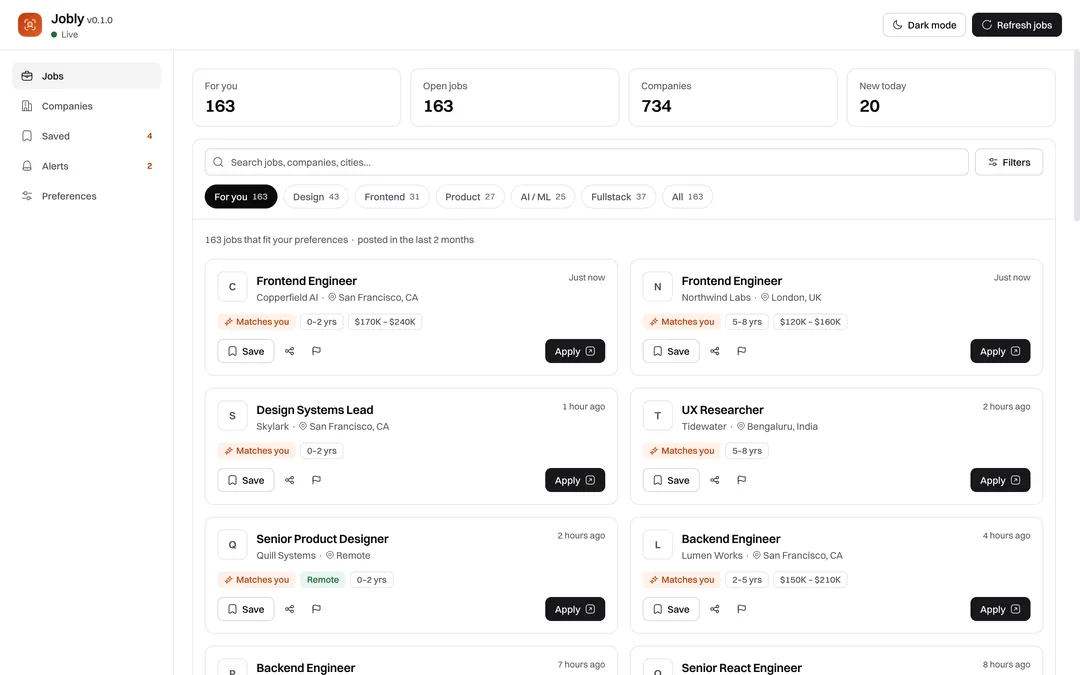
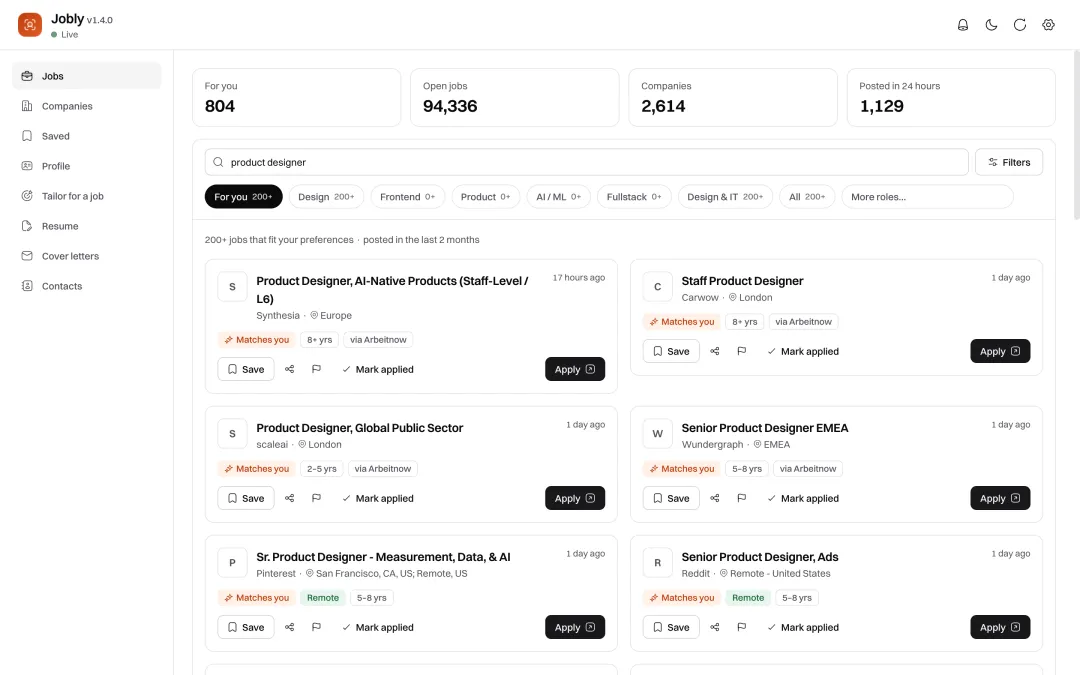
Home page: Apply faster section, new product tour, current numbers
- New "Apply faster" section after Features, in the same card style with small animated mock-ups: apply
  assist (answers with their source, action required, you press Submit), profile in a minute (LinkedIn PDF
  import), a resume for each job (coverage before and after, requirement status) and cover letters that
  answer the job (checked against the profile).
- Hero line now says Jobly also helps you apply; page description and structured data updated.
- The hero's product tour shows the 1.4 extension: Jobs, Apply assist, Tailor and Profile import, light and
  dark, from live job data (the 0.1.0 screenshots and their unused tabs are removed).
  e2e/site-screenshots.mjs regenerates them.
- 1,600+ companies is now 2,000+ across the site (dated changelog entries kept); the roadmap's Now line
  is current.

diff --git a/web/src/lib/alternatives.ts b/web/src/lib/alternatives.ts
@@ -19,7 +19,7 @@ export const ALTERNATIVES: Alternative[] = [
     slug: 'linkedin-jobs', name: 'LinkedIn Jobs', kind: 'Job site and professional network', figure: 'hub', checked: CHECKED,
     title: 'Jobly vs LinkedIn Jobs',
     description: 'How Jobly compares with LinkedIn Jobs for finding new design, development and IT jobs: posting dates, promoted jobs, alerts without an account, and where LinkedIn is better.',
-    summary: 'LinkedIn has far more jobs and the network to go with them. Jobly is narrower: new jobs from 1,600+ company career pages with their original date, design, development and IT sorted by area, no promoted listings and no account.',
+    summary: 'LinkedIn has far more jobs and the network to go with them. Jobly is narrower: new jobs from 2,000+ company career pages with their original date, design, development and IT sorted by area, no promoted listings and no account.',
     chooseThem: ['You want jobs in every industry and country', 'Your network and recruiters are a big part of your search', 'You like applying with Easy Apply'],
     chooseJobly: ['You want to see new design, development and IT jobs within hours, sorted by real date', 'You’re tired of promoted and reposted listings', 'You want alerts without an account or email'],
     rows: [
@@ -29,7 +29,7 @@ export const ALTERNATIVES: Alternative[] = [
       { label: 'Paid placement', jobly: ['yes', 'None'], them: ['no', 'Promoted jobs'] },
       { label: 'Alerts', jobly: ['yes', 'No account needed'], them: ['part', 'Account needed'] },
       { label: 'Applying', jobly: ['yes', 'On the original listing'], them: ['part', 'Easy Apply or the employer’s site'] },
-      { label: 'Coverage', jobly: ['part', 'Every role from 1,600+ career pages; design, dev & IT by area'], them: ['yes', 'Every industry'] },
+      { label: 'Coverage', jobly: ['part', 'Every role from 2,000+ career pages; design, dev & IT by area'], them: ['yes', 'Every industry'] },
       { label: 'Networking', jobly: ['no', 'None'], them: ['yes', 'Profiles, messages, referrals'] },
       { label: 'Price', jobly: ['yes', 'Free'], them: ['yes', 'Free; Premium is paid'] },
     ],
@@ -48,7 +48,7 @@ export const ALTERNATIVES: Alternative[] = [
     slug: 'indeed', name: 'Indeed', kind: 'Job search engine', figure: 'sieve', checked: CHECKED,
     title: 'Jobly vs Indeed',
     description: 'How Jobly compares with Indeed for design, development and IT job searches: real posting dates vs "30+ days", sponsored jobs, alerts without an account, and where Indeed is better.',
-    summary: 'Indeed covers nearly every job and industry. Jobly covers far fewer: jobs from 1,600+ company career pages, each with its original posting date, no sponsored jobs and no account.',
+    summary: 'Indeed covers nearly every job and industry. Jobly covers far fewer: jobs from 2,000+ company career pages, each with its original posting date, no sponsored jobs and no account.',
     chooseThem: ['You want jobs from small local employers too', 'You want company reviews and salary data in the same place', 'You like applying with your Indeed résumé'],
     chooseJobly: ['You want the exact age of every job, not “30+ days”', 'You don’t want sponsored jobs above newer ones', 'You want alerts without an account'],
     rows: [
@@ -58,7 +58,7 @@ export const ALTERNATIVES: Alternative[] = [
       { label: 'Paid placement', jobly: ['yes', 'None'], them: ['no', 'Sponsored jobs'] },
       { label: 'Alerts', jobly: ['yes', 'No account needed'], them: ['part', 'Account needed'] },
       { label: 'Applying', jobly: ['yes', 'On the original listing'], them: ['part', 'Indeed Apply or the employer’s site'] },
-      { label: 'Coverage', jobly: ['part', 'Every role from 1,600+ career pages; design, dev & IT by area'], them: ['yes', 'Every industry'] },
+      { label: 'Coverage', jobly: ['part', 'Every role from 2,000+ career pages; design, dev & IT by area'], them: ['yes', 'Every industry'] },
       { label: 'Price', jobly: ['yes', 'Free'], them: ['yes', 'Free'] },
     ],
     better: [
@@ -91,7 +91,7 @@ export const ALTERNATIVES: Alternative[] = [
     ],
     better: [
       { title: 'Where Simplify is better', text: 'AI writing and the widest autofill. Simplify tailors resumes and drafts answers with AI, and fills forms on more hiring systems.' },
-      { title: 'Where Jobly is better', text: 'Finding, and privacy. Jobly watches 1,600+ career pages and tells you when a new job matches, with its real posting date. Its saved and applied lists, profiles and autofill work without an account and keep everything in your browser.' },
+      { title: 'Where Jobly is better', text: 'Finding, and privacy. Jobly watches 2,000+ career pages and tells you when a new job matches, with its real posting date. Its saved and applied lists, profiles and autofill work without an account and keep everything in your browser.' },
     ],
     together: 'Let Jobly tell you about a new job and keep your applied list; use Simplify’s AI if you want help writing. They don’t get in each other’s way.',
     sources: [
@@ -112,7 +112,7 @@ export const ALTERNATIVES: Alternative[] = [
       { label: 'How often it refreshes', jobly: ['yes', 'Every 4 hours'], them: ['yes', 'Several times a day'] },
       { label: 'Format', jobly: ['yes', 'Chrome extension'], them: ['yes', 'Website'] },
       { label: 'Alerts in your browser', jobly: ['yes', 'Badge and desktop alert'], them: ['part', 'Not its format'] },
-      { label: 'Coverage', jobly: ['part', 'Every role from 1,600+ career pages; design, dev & IT by area'], them: ['yes', 'Many industries'] },
+      { label: 'Coverage', jobly: ['part', 'Every role from 2,000+ career pages; design, dev & IT by area'], them: ['yes', 'Many industries'] },
       { label: 'Applying', jobly: ['yes', 'On the original listing'], them: ['yes', 'On the employer’s site'] },
       { label: 'How it makes money', jobly: ['yes', 'It doesn’t'], them: ['part', 'From employers'] },
       { label: 'Price for job seekers', jobly: ['yes', 'Free'], them: ['yes', 'Free'] },

diff --git a/web/src/lib/faq.ts b/web/src/lib/faq.ts
@@ -13,10 +13,10 @@ export const FAQ_GROUPS: { id: string; title: string; items: Faq[] }[] = [
   },
   {
     id: 'jobs', title: 'Jobs and dates', items: [
-      { top: true, q: 'Which jobs does it cover?', a: 'Every role, with design, development and IT sorted by area at every level from intern to VP: product and UX design, creative design, frontend, fullstack, backend, mobile, DevOps and cloud, data, AI/ML, QA, cybersecurity, IT and support, enterprise apps and product management. Other jobs (sales, marketing, finance, operations and more) are under More roles. Jobly reads the career pages of 1,600+ companies in the US, Europe, Israel, India, Southeast Asia, Australia, Latin America and beyond (on Greenhouse, Ashby, Lever, Workable, SmartRecruiters, Recruitee, Teamtailor, Personio, Workday and Amazon), plus three remote job boards: We Work Remotely, Himalayas and Arbeitnow.' },
+      { top: true, q: 'Which jobs does it cover?', a: 'Every role, with design, development and IT sorted by area at every level from intern to VP: product and UX design, creative design, frontend, fullstack, backend, mobile, DevOps and cloud, data, AI/ML, QA, cybersecurity, IT and support, enterprise apps and product management. Other jobs (sales, marketing, finance, operations and more) are under More roles. Jobly reads the career pages of 2,000+ companies in the US, Europe, Israel, India, Southeast Asia, Australia, Latin America and beyond (on Greenhouse, Ashby, Lever, Workable, SmartRecruiters, Recruitee, Teamtailor, Personio, Workday and Amazon), plus three remote job boards: We Work Remotely, Himalayas and Arbeitnow.' },
       { top: true, q: 'How fresh are the jobs?', a: 'Jobly refreshes every four hours and drops anything older than 60 days or no longer listed by the employer. Your browser checks for new matches every 60 to 90 minutes.' },
       { q: 'Where does the posting date come from?', a: 'From the system the employer published the job in, for example Greenhouse’s first-published date or Lever’s created date. The How dates work page lists the exact field for every source.' },
-      { q: 'Why don’t I see jobs from a company I like?', a: 'Jobly only reads the companies on its list (1,600+ and growing every week), and For you only shows roles that match your preferences. Check the Companies page, and suggest a company through the support form.' },
+      { q: 'Why don’t I see jobs from a company I like?', a: 'Jobly only reads the companies on its list (2,000+ and growing every week), and For you only shows roles that match your preferences. Check the Companies page, and suggest a company through the support form.' },
       { q: 'Does Jobly have jobs outside tech?', a: 'Yes. Jobly lists every job from the career pages it reads. Design, development and IT jobs each get their own list; sales, marketing, finance, people, operations, legal, healthcare and other jobs are under More roles.' },
       { q: 'Does it cover every design level?', a: 'Yes: intern, junior, mid, senior, staff, principal, lead, manager, director, head of design, VP and chief design officer, plus UX research, UX writing, content, service and DesignOps roles. Graphic, brand, motion and other creative roles have their own list.' },
       { q: 'Can I see jobs in my country?', a: 'Yes, if the employers on Jobly’s list hire there. Use the location filter, or add your city or country as a keyword. Turn on Remote only to see remote roles.' },

diff --git a/web/src/lib/pages.ts b/web/src/lib/pages.ts
@@ -15,7 +15,7 @@ export async function listPages(): Promise<PageInfo[]> {
   const doc = (id: string) => docs.find((d) => d.id === id)!;
   const guides = await getGuides();
   const core: PageInfo[] = [
-    { path: '/', title: 'Find jobs posted this week, not last year.', eyebrow: 'Free Chrome extension', summary: 'Fresh jobs from 1,600+ company career pages, design, development and IT sorted by area, with real posting dates and alerts. No account.', section: 'Main' },
+    { path: '/', title: 'Find jobs posted this week, not last year.', eyebrow: 'Free Chrome extension', summary: 'Fresh jobs from 2,000+ company career pages, design, development and IT sorted by area, with real posting dates and alerts. No account.', section: 'Main' },
     { path: '/how-it-works', title: 'From the careers page to your toolbar.', eyebrow: 'How it works', summary: 'How Jobly finds, matches and alerts you to new jobs, and how to install it.', section: 'Main' },
     { path: '/how-dates-work', title: 'Every date, straight from the source.', eyebrow: 'How dates work', summary: 'Where each posting date comes from, the 60-day rule, and the limits.', section: 'Main' },
     { path: '/jobs', title: 'Every design, development and IT job, by role.', eyebrow: 'Jobs', summary: 'Live lists of the newest jobs for every design, development and IT area.', section: 'Jobs' },

diff --git a/web/src/pages/llms.txt.ts b/web/src/pages/llms.txt.ts
@@ -9,7 +9,7 @@ export const GET: APIRoute = async () => {
   const body = [
     '# Jobly',
     '',
-    '> Jobly is a free Chrome extension that lists jobs from the career pages of 1,600+ companies, with design, development and IT sorted by area (product design, frontend, fullstack, backend, mobile, DevOps, data, QA, security, IT and more), and three remote job boards, with each job’s real posting date. It hides jobs older than 60 days, shows no promoted listings, alerts you to new matches, and needs no account. Preferences, saved jobs and alerts stay in the browser.',
+    '> Jobly is a free Chrome extension that lists jobs from the career pages of 2,000+ companies, with design, development and IT sorted by area (product design, frontend, fullstack, backend, mobile, DevOps, data, QA, security, IT and more), and three remote job boards, with each job’s real posting date. It hides jobs older than 60 days, shows no promoted listings, alerts you to new matches, and needs no account. Preferences, saved jobs and alerts stay in the browser.',
     '',
     ...sections.flatMap((s) => [`## ${s}`, '', ...pages.filter((p) => p.section === s).map((p) => `- [${p.eyebrow}: ${p.title}](${new URL(p.path, SITE.url).href}): ${p.summary}`), '']),
     '## Contact',

diff --git a/web/src/lib/roles.ts b/web/src/lib/roles.ts
@@ -81,7 +81,7 @@ export const OTHERS: Role[] = [
 export const EVERY: Role = {
   slug: 'all', id: 'all', name: 'All', plural: 'jobs', figure: 'riffle',
   titles: [...ROLES, ...AREAS, ...OTHERS].map((r) => r.name),
-  lead: 'Every job Jobly lists, from all 1,600+ employers and job boards, in one list: design, development, IT and every other role. Newest first, each with the date the employer posted it.',
+  lead: 'Every job Jobly lists, from all 2,000+ employers and job boards, in one list: design, development, IT and every other role. Newest first, each with the date the employer posted it.',
 };
 
 /** Every role and area with its own page. */

diff --git a/web/src/content/guides/best-chrome-extensions-for-job-seekers.md b/web/src/content/guides/best-chrome-extensions-for-job-seekers.md
@@ -15,7 +15,7 @@ A job search has three slow parts: **finding** good jobs, **filling in** applica
 
 ### Jobly
 
-Our own extension, so take this with a pinch of salt. Jobly reads the career pages of 1,600+ companies around the world, plus three remote job boards, and lists every job with its real posting date, with design, development and IT sorted by area (product design, frontend, fullstack, backend, mobile, DevOps, data, QA, security, IT and more). It hides anything older than 60 days and alerts you to new matches. It's free, needs no account, and keeps your preferences in your browser.
+Our own extension, so take this with a pinch of salt. Jobly reads the career pages of 2,000+ companies around the world, plus three remote job boards, and lists every job with its real posting date, with design, development and IT sorted by area (product design, frontend, fullstack, backend, mobile, DevOps, data, QA, security, IT and more). It hides anything older than 60 days and alerts you to new matches. It's free, needs no account, and keeps your preferences in your browser.
 
 **Good for:** seeing new design, development and IT jobs from the source early. **Not for:** small local employers without an online careers page, or applying for you.
 

diff --git a/web/src/content/guides/find-frontend-developer-jobs-at-startups.md b/web/src/content/guides/find-frontend-developer-jobs-at-startups.md
@@ -15,7 +15,7 @@ Startups are a good place for frontend developers: you ship to real users quickl
 - **Startup job boards.** Boards run by investors and accelerators list roles at the companies they back.
 - **Founders and engineers on social media.** Early hires are often announced in a post before a formal listing exists.
 
-Jobly reads 1,600+ of these careers pages, including many startups, and shows new frontend jobs within a few hours of going up.
+Jobly reads 2,000+ of these careers pages, including many startups, and shows new frontend jobs within a few hours of going up.
 
 ## Search for the right titles
 
